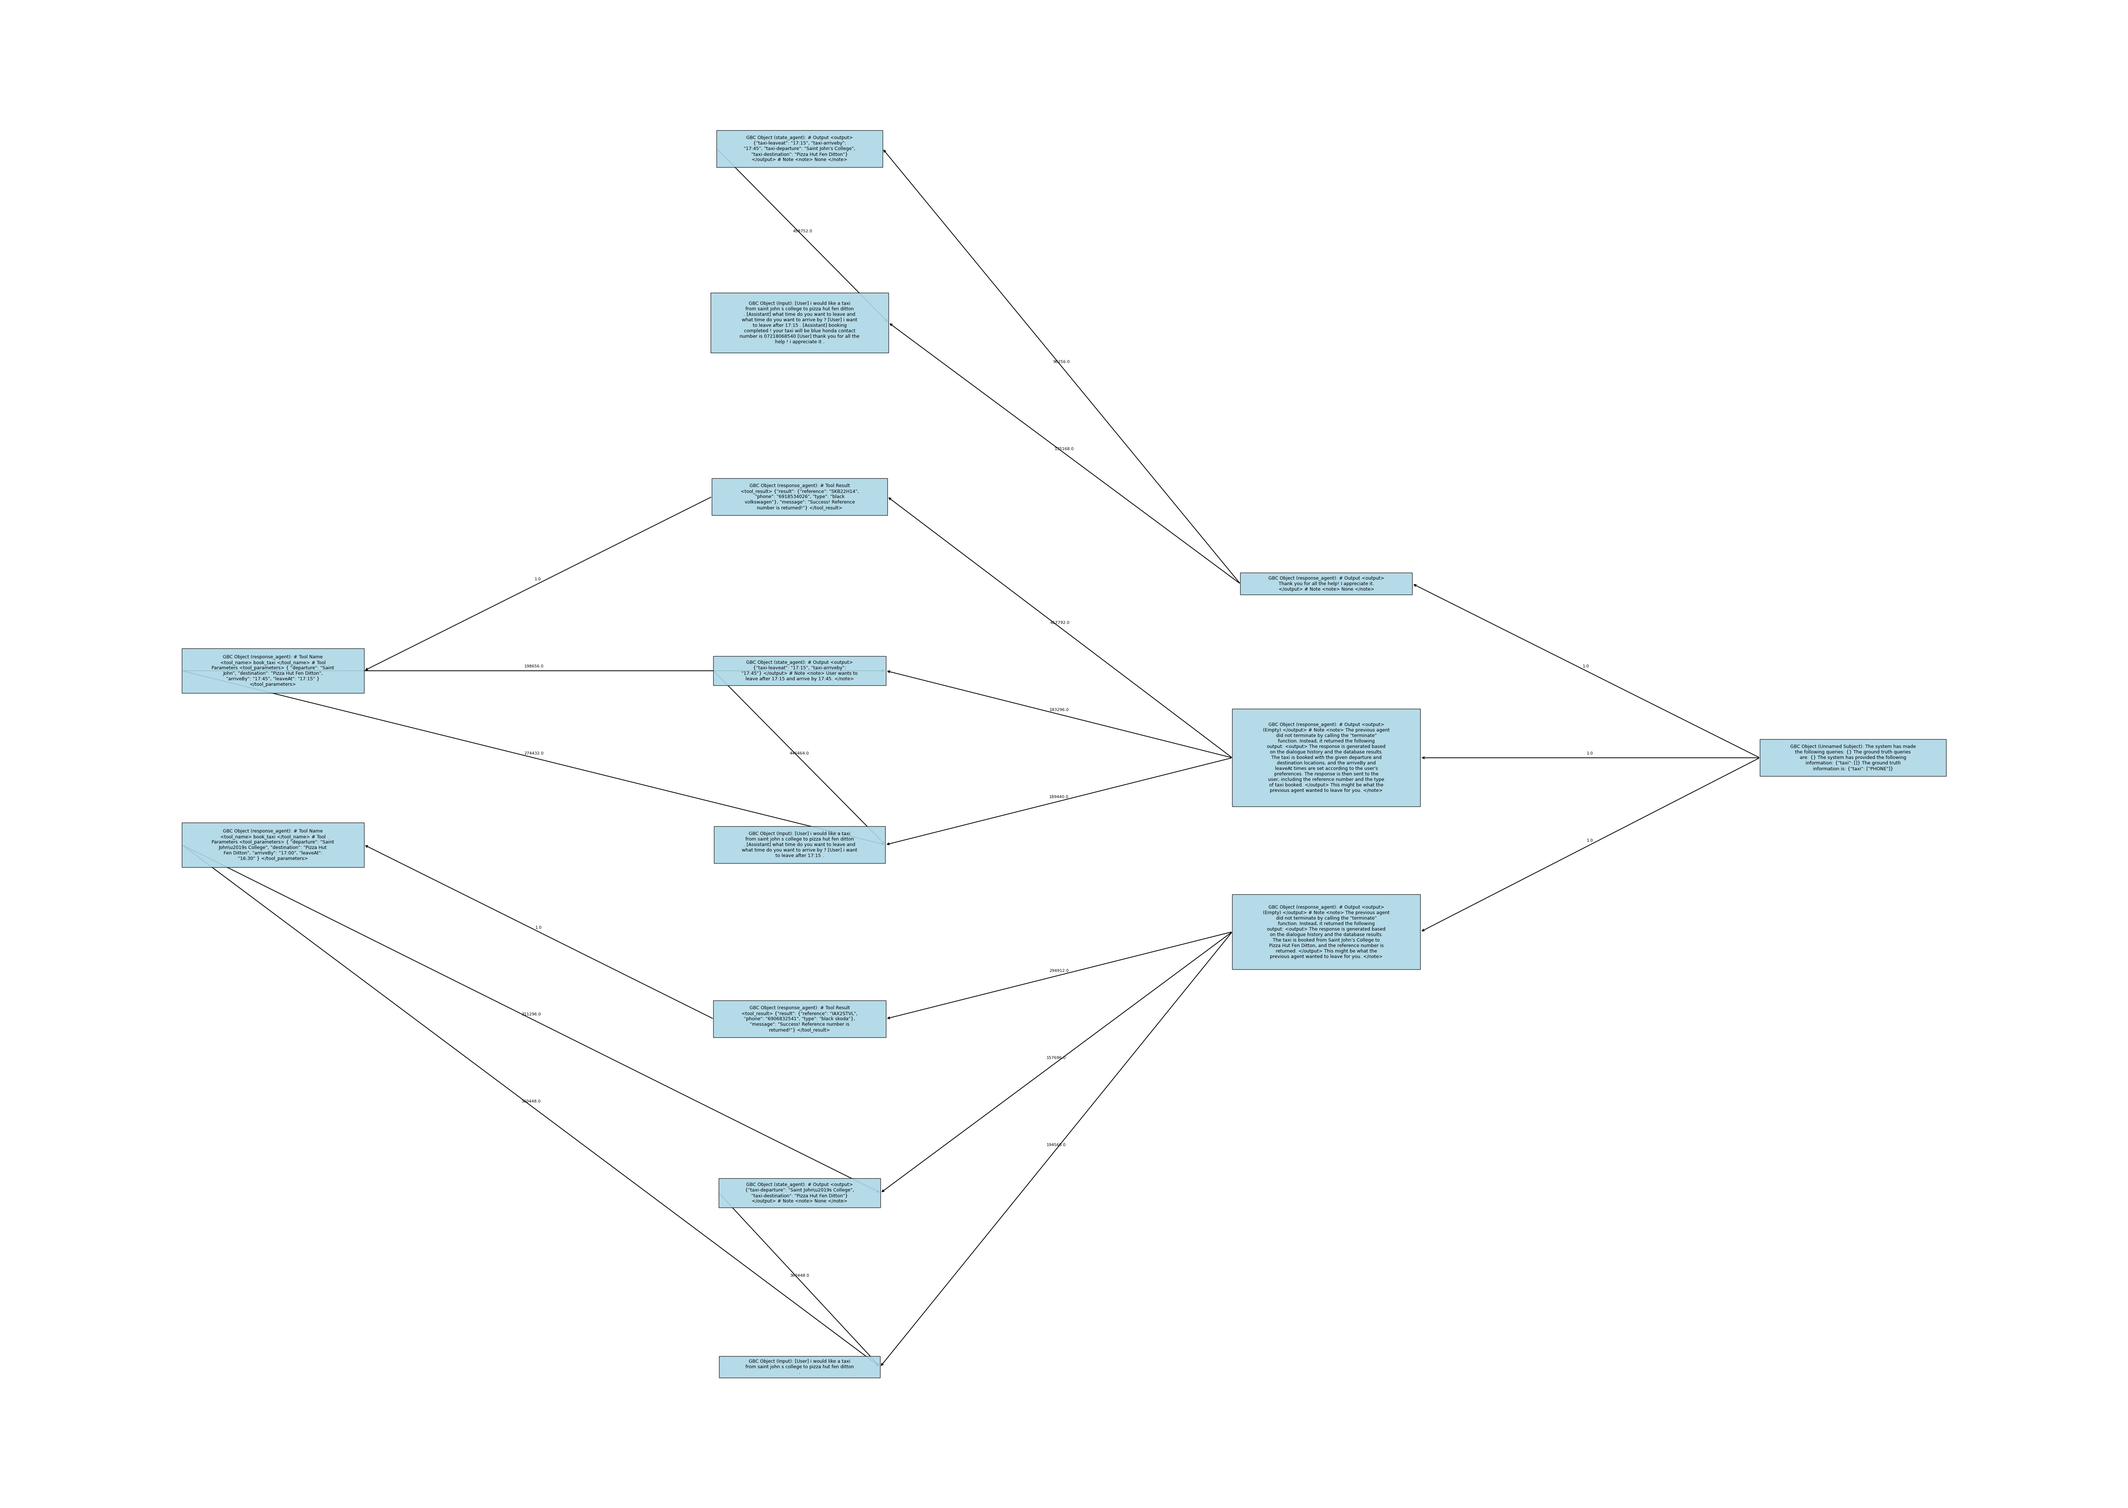
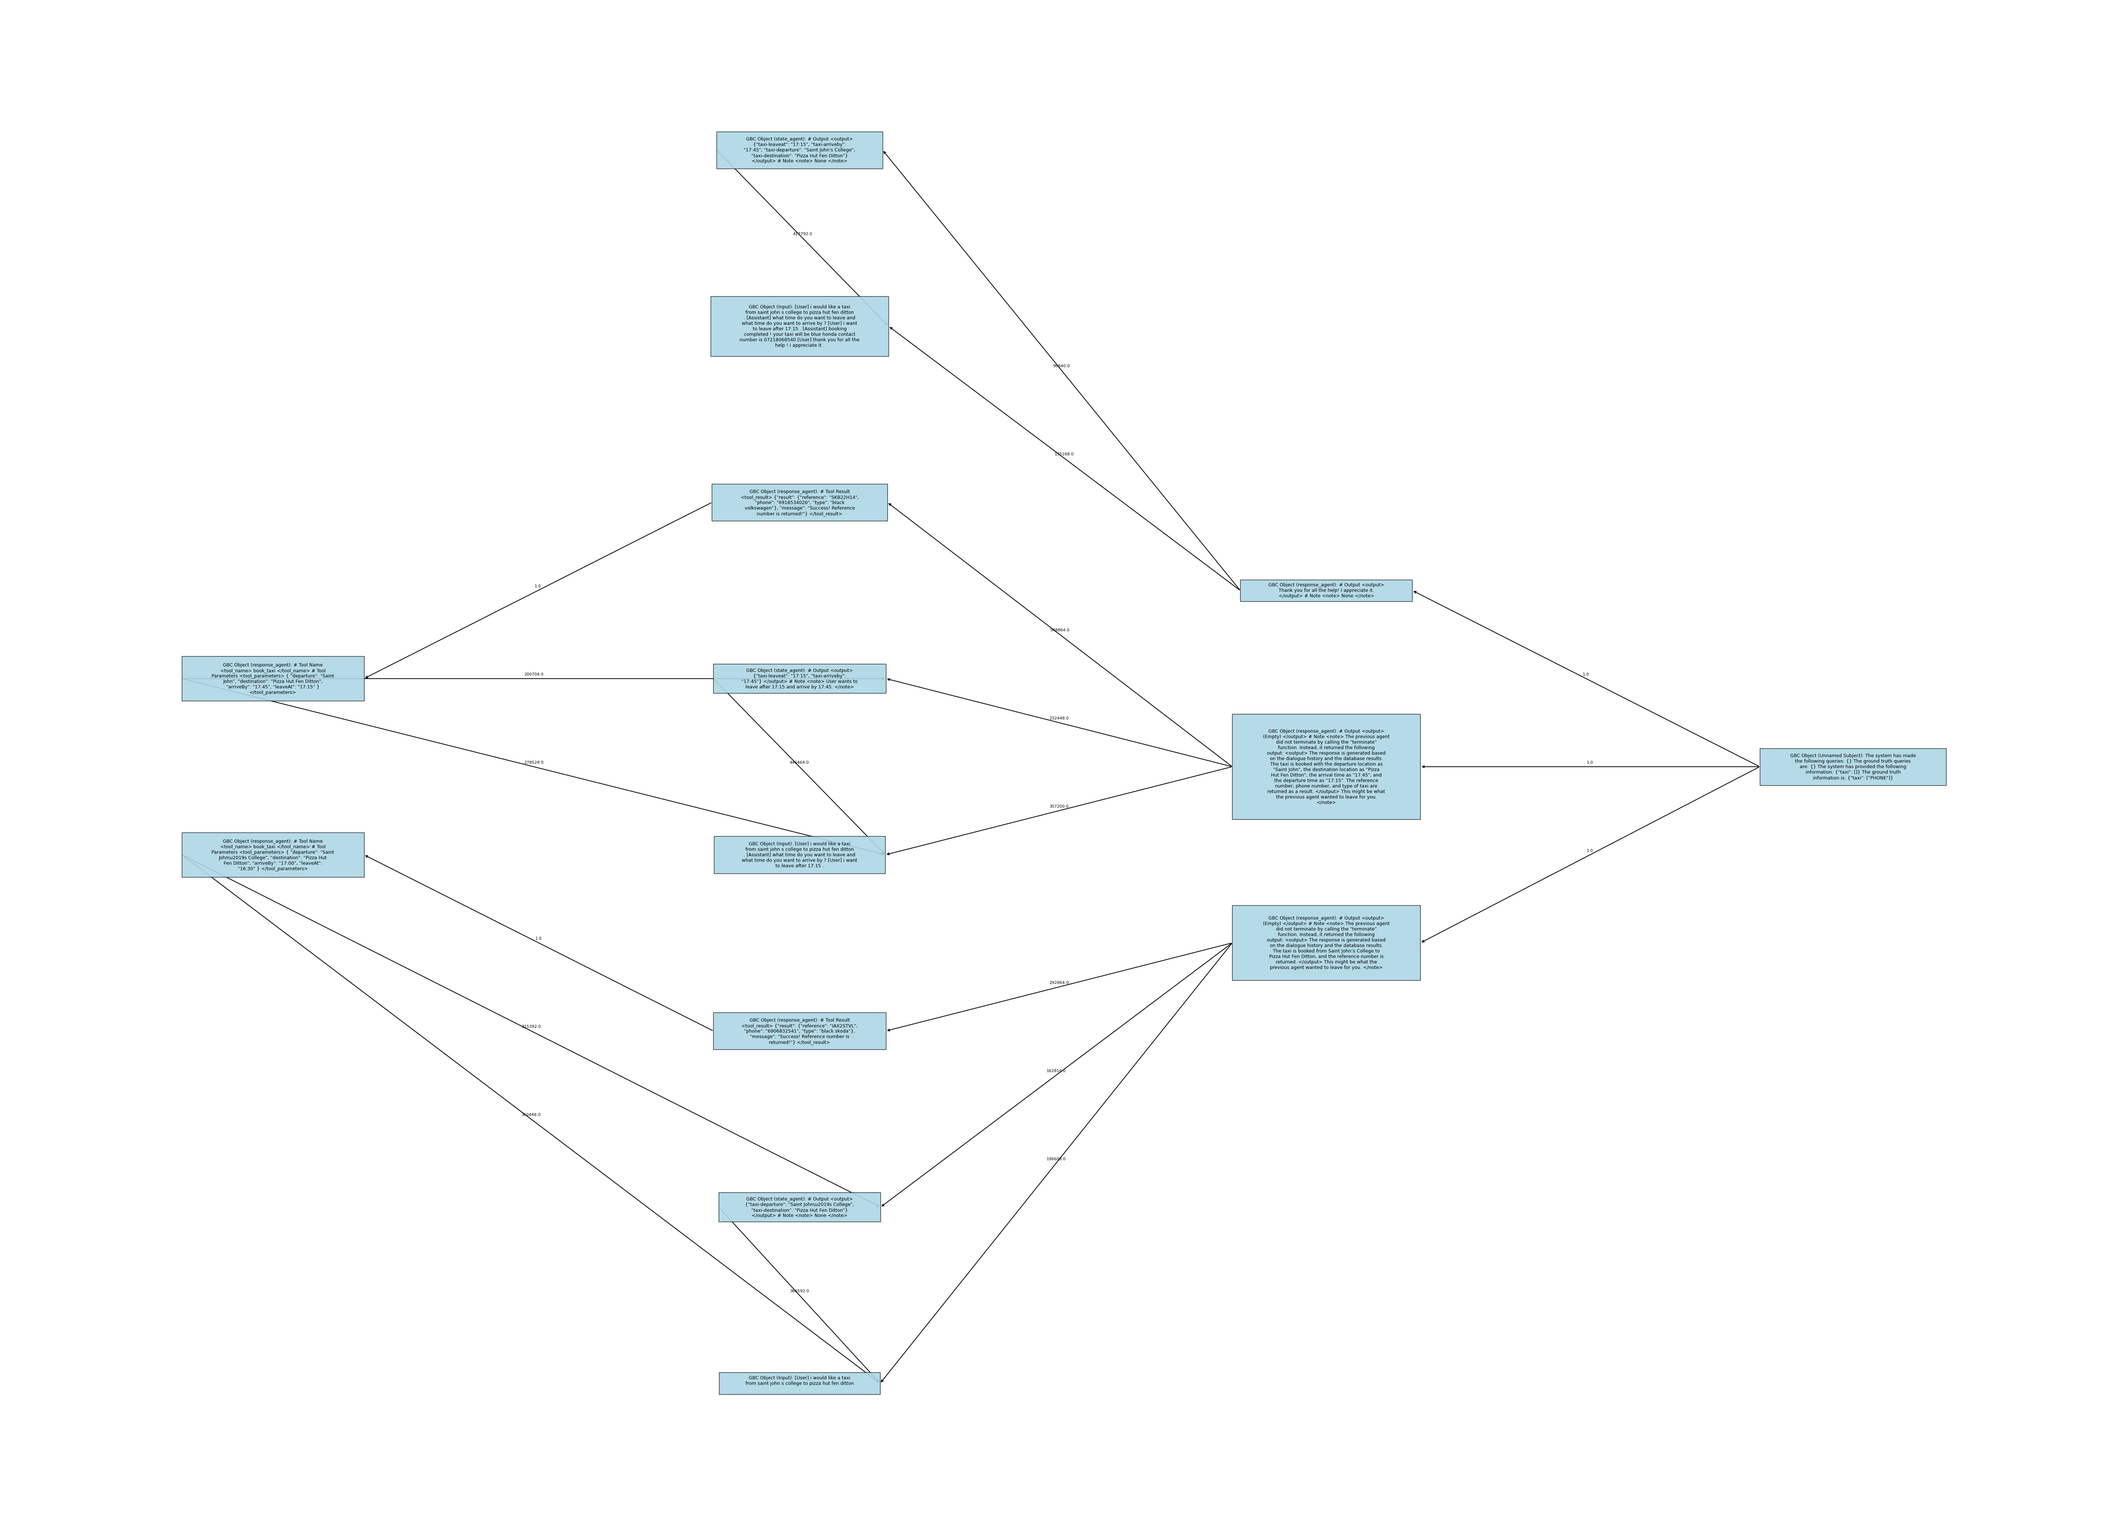
Optimizer implemented

diff --git a/src/agentchord/optimizer/opro_optimizer/opro_optimizer.py b/src/agentchord/optimizer/opro_optimizer/opro_optimizer.py
@@ -1,4 +1,6 @@
-from typing import Dict
+import json
+import re
+from typing import Dict, Optional, Union
 
 from ...agent_system import BaseAgent, Input
 from ...model import ModelConfig, ModelFactory
@@ -12,18 +14,122 @@ class OPROOptimizer(BaseOptimizer):
     This optimizer is designed to work with the OPRO framework, which focuses on optimizing agent interactions.
     """
 
-    def __init__(self, agents: Dict[str, BaseAgent], model_config: ModelConfig):
+    def __init__(
+            self,
+            agents: Dict[str, BaseAgent],
+            model_config: ModelConfig,
+            name: str = "OPROOptimizer",
+            log_name: str = ""
+        ):
         """
         Initialize the OPRO optimizer with the agent system.
         :param agents: The agents to be optimized.
         """
-        super().__init__(agents)
+        super().__init__(agents=agents, name=name, log_name=log_name)
         self.model_config = model_config
         self.model = ModelFactory(self.model_config).create_model()
-        self.optimization_info = Input().get_optimization_info()
 
-    def step(self):
-        self.optimization_info = Input().get_optimization_info()
-        for trajectory in self.optimization_info:
-            trajectory_str = " -> ".join([f"{output[0]}: {output[1]}" for output in trajectory])
-            # Todo: Implement the optimization logic using the model.
+    def step(self, performance: str) -> None:
+        """ 
+        Perform a single optimization step.
+        This method will use the model to optimize the prompts of the agents based on the optimization history and trajectories.
+        """
+        self.update_attributes()
+        self.update_optimization_history(performance)
+
+        inference_trajectories = [" -> ".join([f"{output[0]}: {output[1]}" for output in trajectory]) for trajectory in self.optimization_info]
+        instrcution_str = META_PROMPT_INSTRUCTION
+        input_str = META_PROMPT_INPUT.format(
+            agent_structure=json.dumps(self.prompts, indent=2),
+            optimization_history=json.dumps(self.optimization_history, indent=2),
+            inference_trajectories=json.dumps(inference_trajectories, indent=2)
+        )
+
+        messages = [
+            {"role": "system", "content": instrcution_str},
+            {"role": "user", "content": input_str}
+        ]
+        self.logger.debug(f"Optimization message: {messages}")
+        output_message = self.model.completion(
+            messages=messages,
+        ).choices[0].message
+        self.logger.debug(f"Optimization result: {output_message.content}")
+        optimization_output = self.parse_optimization_output(output_message.content)
+        self.update_prompts(optimization_output)
+        Input().optimization_info_initialization()
+
+    def parse_optimization_output(self, output_message: str) -> Dict[str, str]:
+        """
+        Parse the output message from the model to extract the new prompts for the agents.
+        :param output_message: The output message from the model.
+        :return: A dictionary mapping agent names to their new prompts.
+        """
+        parsed_output = self.parse_json_string(output_message)
+        if isinstance(parsed_output, dict):
+            if "agent_prompts" in parsed_output and self.check_optimization_output(parsed_output["agent_prompts"]):
+                return parsed_output["agent_prompts"]
+        elif isinstance(parsed_output, list):
+            for item in parsed_output:
+                if isinstance(item, dict) and "agent_prompts" in item and self.check_optimization_output(item["agent_prompts"]):
+                    return item["agent_prompts"]
+        else:
+            raise ValueError("The output JSON is neither a dictionary nor a list of dictionaries.")
+        return dict()
+        
+    def parse_json_string(self, json_string: str) -> Optional[Union[dict, list]]:
+        """
+        Parse a JSON string and return the corresponding Python object.
+        """
+        def sanitize_invalid_escapes(s):
+            # Replace \' with '
+            s = re.sub(r"\\'", "'", s)
+            # Replace all other invalid backslash escapes (except valid ones)
+            s = re.sub(r'\\(?!["\\/bfnrtu])', r'\\\\', s)
+            return s
+        json_string = sanitize_invalid_escapes(json_string)
+        def extract_from_markdown(json_string: str) -> str:
+            """
+            Extract JSON content from markdown format.
+            """
+            json_format = re.compile(r"```(json)?(.*)```", re.DOTALL)
+            match = json_format.match(json_string)
+            if match:
+                return match.group(2).strip()
+            return json_string
+        json_string = extract_from_markdown(json_string)
+
+        objects = list()
+        start_idx = 0
+        while start_idx < len(json_string):
+            while start_idx < len(json_string) and json_string[start_idx] != '{' and json_string[start_idx] != '[':
+                start_idx += 1
+            if start_idx >= len(json_string):
+                break
+            try:
+                obj, end_idx = json.JSONDecoder().raw_decode(json_string, idx=start_idx)
+                objects.append(obj)
+                start_idx = end_idx
+            except json.JSONDecodeError:
+                # If we can't decode, it might be due to multiple JSON objects or invalid format
+                break
+        if len(objects) == 1:
+            return objects[0]
+        elif len(objects) > 1:
+            return objects
+        else:
+            return None
+        
+    def check_optimization_output(self, output: Dict[str, str]) -> bool:
+        """
+        Check if the optimization output is valid.
+        :param output: The output from the model.
+        :return: True if the output is valid, False otherwise.
+        """
+        if not isinstance(output, dict):
+            return False
+        for agent_name, prompt in output.items():
+            if not isinstance(agent_name, str) or not isinstance(prompt, str):
+                return False
+            if not agent_name in self.agents:
+                return False
+        return True

diff --git a/src/agentchord/optimizer/base_optimizer.py b/src/agentchord/optimizer/base_optimizer.py
@@ -1,6 +1,8 @@
+from copy import deepcopy
 from typing import Dict
 
-from ..agent_system import BaseAgent
+from ..agent_system import BaseAgent, Input
+from ..utils import Logger
 
 
 class BaseOptimizer:
@@ -8,14 +10,43 @@ class BaseOptimizer:
     Base class for optimizers.
     """
 
-    def __init__(self, agents: Dict[str, BaseAgent]):
+    def __init__(self, agents: Dict[str, BaseAgent], name: str = "BaseOptimizer", log_name: str = ""):
         """
         Initialize the optimizer with the agent system.
         :param agent_system: The agents to be optimized.
         """
+        self.name = name
+        self.log_name = log_name
         self.agents = agents
         self.trajectories = list()
         self.optimization_history = list()
+        self.update_attributes()
+        self.logger = Logger(self.name, self.log_name)
+
+    def update_attributes(self):
+        """
+        Update the attributes of the optimizer.
+        This method is called to ensure that the optimizer has the latest information about the agents and their configurations.
+        """
+        self.optimization_info = Input().get_optimization_info()
+        self.prompts = {agent_name: agent.get_prompt() for agent_name, agent in self.agents.items()}
+
+    def update_optimization_history(self, performance: str):
+        current_prompts = deepcopy(self.prompts)
+        self.optimization_history.append({
+            "prompts": current_prompts,
+            "performance": performance
+        })
+
+    def update_prompts(self, new_prompts: Dict[str, str]):
+        """
+        Update the prompts of the agents.
+        :param new_prompts: A dictionary mapping agent names to their new prompts.
+        """
+        for agent_name, new_prompt in new_prompts.items():
+            if agent_name in self.agents:
+                self.agents[agent_name].set_prompt(new_prompt)
+                self.prompts[agent_name] = new_prompt
 
     def step(self):
         """
@@ -23,3 +54,17 @@ class BaseOptimizer:
         This method should be overridden by subclasses to implement specific optimization logic.
         """
         raise NotImplementedError("The step method must be implemented by subclasses.")
+    
+    def set_debug_level(self, debug: bool):
+        """
+        Set the debug level for the logger.
+        :param debug: If True, set the logger to debug level; otherwise, set it to info level.
+        """
+        self.logger.set_debug_level(debug)
+
+    def set_log_redirection(self, file_name: str):
+        """
+        Set the log redirection to a specific file.
+        :param file_name: The name of the file to redirect logs to.
+        """
+        self.logger.set_log_redirection(file_name)

diff --git a/src/agentchord/optimizer/opro_optimizer/meta_prompt.py b/src/agentchord/optimizer/opro_optimizer/meta_prompt.py
@@ -21,7 +21,7 @@ The structure of the multi-agent system:
   ...
 }
 ```
-The optimization history and the corresponding performances:
+The optimization history and the corresponding performance:
 ```json
 [
   {
@@ -30,7 +30,7 @@ The optimization history and the corresponding performances:
       "agent_name_2": "Prompt for agent 2",
       ...
   },
-    "performances": "A brief description of the performance of the multi-agent system, including the expected output and the actual output.",
+    "performance": "A brief description of the performance of the multi-agent system, including the expected output and the actual output.",
   },
   {
     "prompts": {
@@ -38,7 +38,7 @@ The optimization history and the corresponding performances:
       "agent_name_2": "Prompt for agent 2",
       ...
   },
-    "performances": "A brief description of the performance of the multi-agent system, including the expected output and the actual output.",
+    "performance": "A brief description of the performance of the multi-agent system, including the expected output and the actual output.",
   },
   ...
 ]
@@ -58,8 +58,8 @@ You should output a JSON object with the following structure:
 {
   "reasoning": "Your reasoning about the agents and their prompts.",
   "agent_prompts": {
-    "agent_name_1": "New prompt for agent 1",
-    "agent_name_2": "New prompt for agent 2",
+    "agent_name_x": "New prompt for agent x",
+    "agent_name_y": "New prompt for agent y",
     ...
   }
 }
@@ -71,7 +71,7 @@ The structure of the multi-agent system:
 ```json
 {agent_structure}
 ```
-The optimization history and the corresponding performances:
+The optimization history and the corresponding performance:
 ```json
 {optimization_history}
 ```

diff --git a/examples/multiwoz_24_examples/multiwoz_24_loss_example.py b/examples/multiwoz_24_examples/multiwoz_24_loss_example.py
@@ -11,8 +11,10 @@ from agentchord import (
     Multiwoz24Environment,
     MultiWOZ24MetaData,
 )
+from agentchord.agent_system import Input
 from agentchord.gbc_object import GBC, visualize_gbc_tree
 from agentchord.loss import MultiWOZ24Loss
+from agentchord.optimizer import OPROOptimizer
 
 prompt_read_state = """
 You are a helpful agent that can retrieve dialogue states from the user.
@@ -160,6 +162,13 @@ class Multiwoz24System(BaseAgentSystem):
 multiwoz_24_system = Multiwoz24System("multiwoz_24_system", Multiwoz24Environment(), log_name="multiwoz_24_loss_example.log")
 print(multiwoz_24_system.get_pipeline_description())
 
+optimizer = OPROOptimizer(
+    agents=multiwoz_24_system.get_agents(),
+    model_config=ModelConfig(
+        client_model="openai/gpt-4o-mini",
+    ),
+    log_name="multiwoz_24_loss_example.log"
+)
 loss_fn = MultiWOZ24Loss()
 for dialogue_idx, dialogue_case in enumerate(Multiwoz24Environment.iterate_test_cases(mode="test")):
     for turn_idx, turn_case in enumerate(dialogue_case.iterate_dialog_turns()):
@@ -181,3 +190,11 @@ visualize_gbc_tree(loss, save_path="examples/multiwoz_24_examples/multiwoz_24_lo
 print("Final Evaluation Result:", evaluation_result)
 print("Final Loss:", loss)
 print("===============================")
+print("\n\n")
+
+print("Optimizing prompts...")
+print(f"Initial prompts: {optimizer.prompts}")
+loss.backward(bandwidth=1)
+optimizer.step(performance=f"Inform: {evaluation_result.inform['total']}; Success: {evaluation_result.success['total']}; Joint Goal Accuracy: {evaluation_result.joint_goal_accuracy}")
+print(f"Optimized prompts: {optimizer.prompts}")
+print("Optimization complete.")

diff --git a/src/agentchord/agent_system/input.py b/src/agentchord/agent_system/input.py
@@ -14,7 +14,7 @@ class Input(metaclass=SingletonMeta):
         Initialize the Input agent with input data.
         :param input_data: The input data to be represented by this agent.
         """
-        self.optimization_info = list()
+        self.optimization_info_initialization()
     
     def append_optimization_info(self, info: List[List[Tuple[Union[str, BaseAgent, Self], str]]]) -> List[List[Tuple[Union[str, BaseAgent, Self], str]]]:
         """
@@ -29,5 +29,15 @@ class Input(metaclass=SingletonMeta):
         """
         return self.optimization_info
     
+    def optimization_info_initialization(self):
+        """
+        Initialize the optimization information of the agent.
+        This method is called to ensure that the agent has the latest optimization information.
+        """
+        self.optimization_info = list()
+    
     def __repr__(self):
         return "Input"
+    
+    def __deepcopy__(self, memo):
+        return self  # Always return the same instance

diff --git a/src/agentchord/agent_system/base_agent.py b/src/agentchord/agent_system/base_agent.py
@@ -13,11 +13,8 @@ from ..utils import (
     INPUT_SEPARATOR,
     INPUT_WITH_NOTE,
     NOTE_NO_ACTION,
-    OUTPUT_NOTE_INFO,
     TOOL_FOOTER,
     TOOL_HEADER,
-    TOOL_INFO,
-    TOOL_RESULT_INFO,
 )
 from .base_agent_system import BaseAgentSystem
 
@@ -165,6 +162,20 @@ class BaseAgent(BaseAgentSystem):
 
     def get_agents(self) -> List[Self]:
         return {self.system_name: self}
+    
+    def get_prompt(self) -> str:
+        """
+        Get the prompt of the agent.
+        """
+        return self.prompt
+    
+    def set_prompt(self, prompt: str):
+        """
+        Set the prompt of the agent.
+        :param prompt: The new prompt for the agent.
+        """
+        self.prompt = prompt
+        self.messages_initialization()
 
     def append_optimization_info(self, info: List[List[Tuple[Union[str, Self], str]]]) -> List[List[Tuple[Union[str, Self], str]]]:
         """

diff --git a/src/agentchord/model/utils.py b/src/agentchord/model/utils.py
@@ -1,3 +1,5 @@
+import json
+import re
 from typing import Literal, Optional, Union
 
 from litellm import Message
@@ -97,8 +99,6 @@ def parse_json_string(json_string: str) -> Optional[Union[dict, list]]:
     """
     Parse a JSON string and return the corresponding Python object.
     """
-    import json
-    import re
     def sanitize_invalid_escapes(s):
         # Replace \' with '
         s = re.sub(r"\\'", "'", s)
